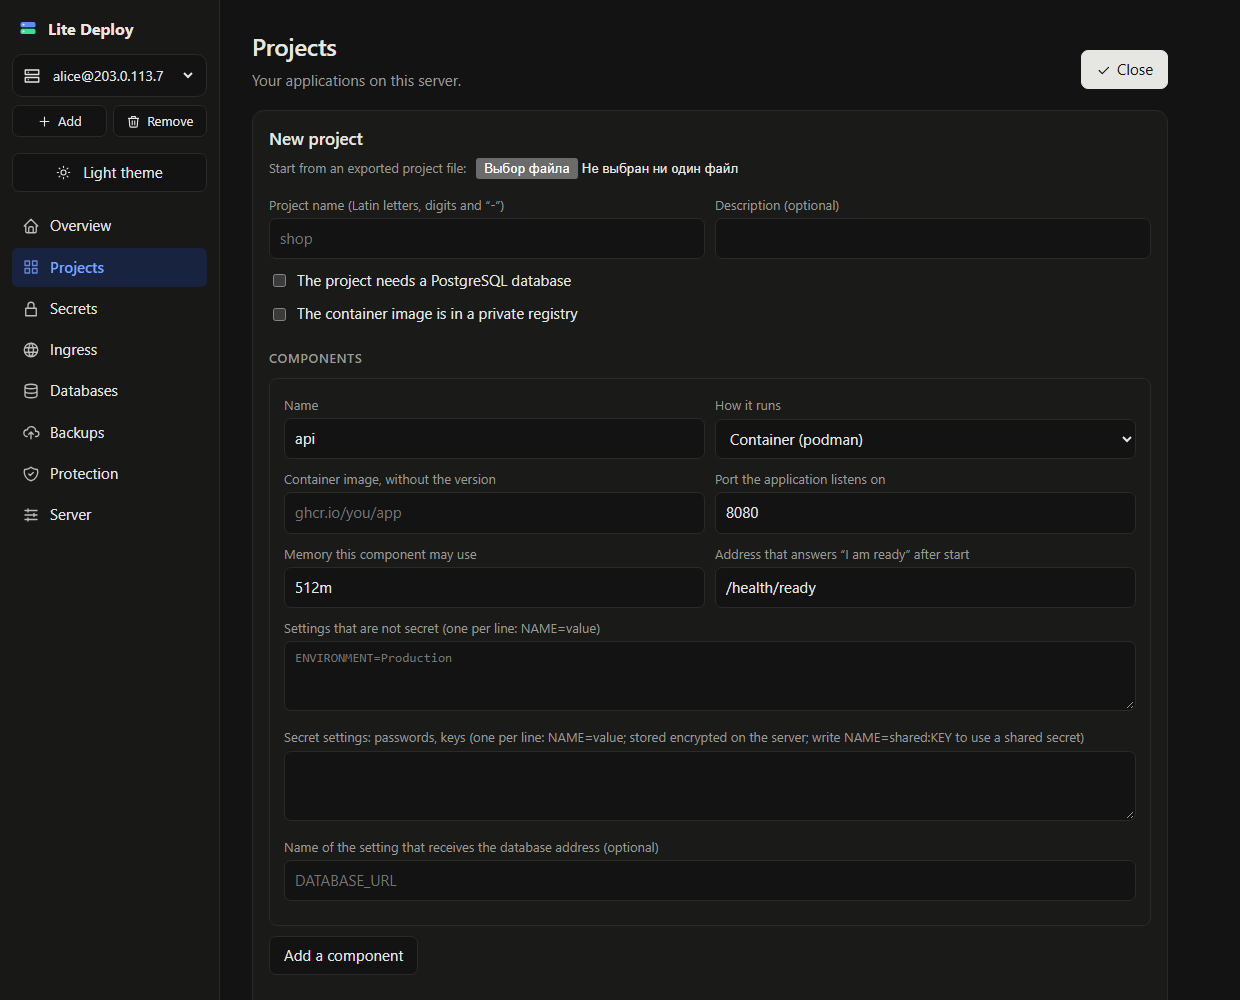
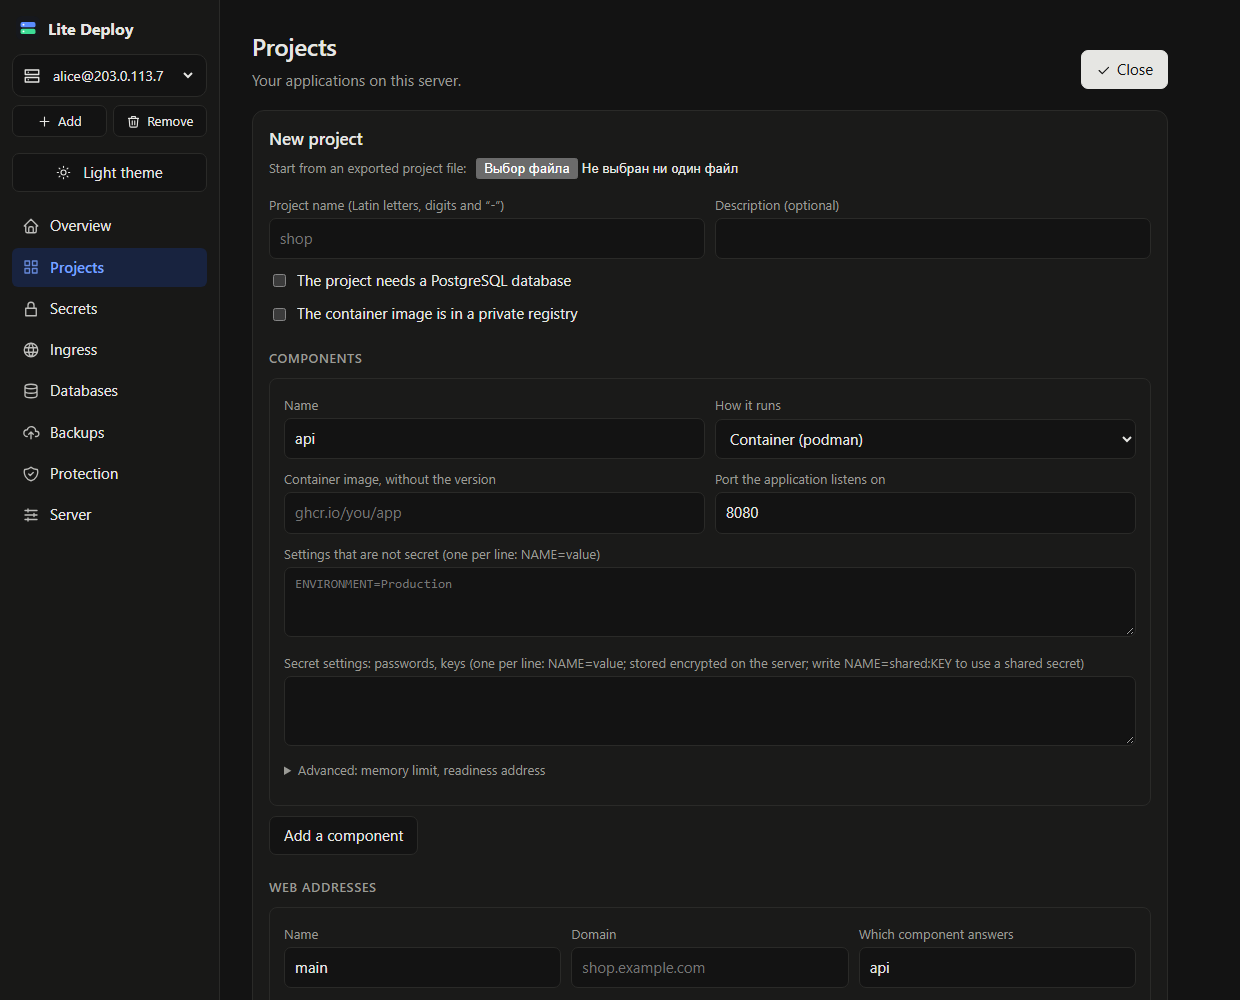
Packages page (search, install, update, remove); package search on the server; simpler new-project form; plan T22 and T23

diff --git a/internal/ui/web/js/new-project.js b/internal/ui/web/js/new-project.js
@@ -29,10 +29,13 @@
     <div class="grow"><label>Description (optional)</label><input type="text" v-model="desc" autocomplete="off"></div></div>\
   <label class="check"><input type="checkbox" v-model="dbOn"> The project needs a PostgreSQL database</label>\
   <div class="box" v-if="dbOn">\
-    <div class="row"><div class="grow"><label>Database server (empty: this server)</label><input type="text" v-model="db.server" autocomplete="off"></div>\
-      <div class="grow"><label>Port (for another server)</label><input type="text" v-model="db.port"></div>\
-      <div class="grow"><label>How your application reads the database address</label><select v-model="db.fmt"><option value="url">As a link (most applications)</option><option value="npgsql">.NET style (Npgsql)</option><option value="libpq">Key = value style (libpq)</option></select></div></div>\
-    <label>Password of the database role (only for a database on another server)</label><input type="password" v-model="db.pass" autocomplete="off">\
+    <div class="help">The database is created on this server, with its own user and password; the application gets the address in a setting you name below.</div>\
+    <details style="margin-top:8px"><summary class="help">Advanced: a database on another server, or another address format</summary>\
+      <div class="row"><div class="grow"><label>Database server (empty: this server)</label><input type="text" v-model="db.server" autocomplete="off"></div>\
+        <div class="grow"><label>Port (for another server)</label><input type="text" v-model="db.port"></div>\
+        <div class="grow"><label>Address format (leave as it is unless the application says otherwise)</label><select v-model="db.fmt"><option value="url">Standard (most applications)</option><option value="npgsql">.NET (Npgsql)</option><option value="libpq">Key = value (libpq)</option></select></div></div>\
+      <label>Password of the database user (only for a database on another server)</label><input type="password" v-model="db.pass" autocomplete="off">\
+    </details>\
   </div>\
   <label class="check"><input type="checkbox" v-model="regOn"> The container image is in a private registry</label>\
   <div class="box" v-if="regOn">\
@@ -52,11 +55,15 @@
       <label>Public key your build is signed with (a minisign key, starts with RWQ)</label><input type="text" v-model="s.rkey" placeholder="RWQ…" autocomplete="off">\
       <label>Download token (optional)</label><input type="password" v-model="s.rtok" autocomplete="off">\
     </template>\
-    <div class="row"><div class="grow"><label>Memory this component may use</label><input type="text" v-model="s.mem"></div>\
-      <div class="grow"><label>Address that answers “I am ready” after start</label><input type="text" v-model="s.health"></div></div>\
     <label>Settings that are not secret (one per line: NAME=value)</label><textarea v-model="s.env" placeholder="ENVIRONMENT=Production" spellcheck="false"></textarea>\
     <label>Secret settings: passwords, keys (one per line: NAME=value; stored encrypted on the server; write NAME=shared:KEY to use a shared secret)</label><textarea v-model="s.sec" spellcheck="false"></textarea>\
+    <template v-if="dbOn">\
     <label>Name of the setting that receives the database address (optional)</label><input type="text" v-model="s.dbenv" placeholder="DATABASE_URL" autocomplete="off">\
+    </template>\
+    <details style="margin-top:8px"><summary class="help">Advanced: memory limit, readiness address</summary>\
+    <div class="row"><div class="grow"><label>Memory this component may use</label><input type="text" v-model="s.mem"></div>\
+      <div class="grow"><label>Address that answers “I am ready” after start</label><input type="text" v-model="s.health"></div></div>\
+    </details>\
     <div style="margin-top:10px"><button type="button" @click="services.splice(i, 1)" v-if="services.length > 1">Remove this component</button></div>\
   </div>\
   <button type="button" @click="services.push(newService())">Add a component</button>\
@@ -66,8 +73,12 @@
       <div class="grow"><label>Domain</label><input type="text" v-model="s.host" placeholder="shop.example.com" autocomplete="off"></div>\
       <div class="grow"><label>Which component answers</label><input type="text" v-model="s.service" autocomplete="off"></div></div>\
     <div class="row"><div class="grow"><label>How visitors reach it</label><select v-model="s.publish"><option value="tunnel">Through a Cloudflare Tunnel</option><option value="direct">Directly (Caddy gets the certificate itself)</option></select></div>\
+    </div>\
+    <details style="margin-top:8px"><summary class="help">Advanced: upload limit, real visitor address</summary>\
+    <div class="row">\
       <div class="grow"><label>Visitors come through Cloudflare (so the real visitor address is kept)</label><select v-model="s.proxy"><option value="none">No</option><option value="cloudflare">Yes</option></select></div>\
       <div class="grow"><label>Largest upload allowed (for example 5MB)</label><input type="text" v-model="s.body"></div></div>\
+    </details>\
     <div style="margin-top:10px"><button type="button" @click="sites.splice(i, 1)">Remove this address</button></div>\
   </div>\
   <button type="button" @click="sites.push(newSite())">Add an address</button>\

diff --git a/internal/ui/web/js/packages.js b/internal/ui/web/js/packages.js
@@ -1,0 +1,53 @@
+(function () {
+  // The packages of the server: search, install, update and remove. Everything is done by the `package` plugin on the
+  // server; this page only asks.
+  LU.components.Packages = {
+    data: function () { return { query: '', found: null, list: null, error: '' }; },
+    template: '\
+<div>\
+  <h1>Packages</h1>\
+  <p class="sub">Programs installed on this server. Search for one, install it, or remove one that you installed here.</p>\
+  <h3>Find and install</h3>\
+  <form class="row" @submit.prevent="search">\
+    <input class="grow" type="text" v-model="query" placeholder="What do you need? For example: redis, git, ffmpeg" autocomplete="off" spellcheck="false">\
+    <button class="primary" type="submit" :disabled="$root.state.busy"><icon name="plus"></icon>Search</button></form>\
+  <p v-if="error" class="down">{{ error }}</p>\
+  <table v-if="found && found.length"><tr><th>Package</th><th>What it is</th><th></th></tr>\
+    <tr v-for="f in found" :key="f.name"><td><code>{{ f.name }}</code></td><td>{{ f.summary }}</td>\
+      <td style="text-align:right"><button @click="install(f.name)" :disabled="$root.state.busy">Install</button></td></tr></table>\
+  <p v-else-if="found" class="empty">Nothing found. Try another word.</p>\
+  <h3>Installed through Lite Deploy</h3>\
+  <p v-if="list && !list.length" class="empty">Nothing yet. Programs you install here appear in this list.</p>\
+  <table v-else-if="list"><tr><th>Package</th><th>Version</th><th>Installed</th><th></th></tr>\
+    <tr v-for="p in list" :key="p.name"><td><code>{{ p.name }}</code></td><td>{{ p.version }}</td><td class="muted">{{ p.installed_at }}</td>\
+      <td style="text-align:right;white-space:nowrap"><button @click="update(p.name)" :disabled="$root.state.busy">Update</button>\
+        <button @click="remove(p.name)" :disabled="$root.state.busy">Remove</button></td></tr></table>\
+  <p v-else class="empty">Loading…</p>\
+  <div class="help">Only programs installed here are listed. The ones that keep the server working (SSH, sudo, systemd) cannot be removed.</div>\
+</div>',
+    methods: {
+      load: function () {
+        var self = this;
+        LU.api('/api/plugin', { plugin: 'package', command: 'list', args: [] }).then(function (r) {
+          if (r.ok) { self.list = (r.data && r.data.packages) || []; } else { self.error = r.error ? r.error.message : 'Could not load.'; }
+        });
+      },
+      search: function () {
+        var self = this, q = this.query.trim();
+        self.error = '';
+        if (q.length < 2) { LU.say('err', 'Type at least two letters.'); return; }
+        LU.run('Searching…', '/api/plugin', { plugin: 'package', command: 'search', args: q.split(/\s+/) }, function () { return 'Done.'; })
+          .then(function (r) { if (r.ok) { self.found = (r.data && r.data.found) || []; LU.clear(); } });
+      },
+      act: function (verb, name, wait, doneText) {
+        var self = this;
+        if (!confirm(verb[0].toUpperCase() + verb.slice(1) + ' ' + name + ' on this server?')) return;
+        LU.run(wait, '/api/plugin', { plugin: 'package', command: verb, args: [name] }, function () { return doneText; }).then(function () { self.load(); });
+      },
+      install: function (n) { this.act('install', n, 'Installing ' + n + '…', n + ' is installed.'); },
+      update: function (n) { this.act('update', n, 'Updating ' + n + '…', n + ' is updated.'); },
+      remove: function (n) { this.act('remove', n, 'Removing ' + n + '…', n + ' is removed.'); }
+    },
+    mounted: function () { this.load(); }
+  };
+})();

diff --git a/internal/ui/web/js/main.js b/internal/ui/web/js/main.js
@@ -8,6 +8,7 @@
     { id: 'databases', title: 'Databases', icon: 'database', plugin: 'pg', comp: 'databases' },
     { id: 'backups', title: 'Backups', icon: 'backup', plugin: 'backup', comp: 'backups' },
     { id: 'security', title: 'Protection', icon: 'shield', comp: 'security' },
+    { id: 'packages', title: 'Packages', icon: 'box', plugin: 'package', comp: 'packages' },
     { id: 'server', title: 'Server', icon: 'settings', comp: 'server' }
   ];
 
@@ -74,6 +75,7 @@
   app.component('projects', C.Projects);
   app.component('ingress', C.Ingress);
   app.component('shared-secrets', C.SharedSecrets);
+  app.component('packages', C.Packages);
   app.component('databases', C.Databases);
   app.component('backups', C.Backups);
   app.component('store-form', C.StoreForm);

diff --git a/internal/ui/web/js/icons.js b/internal/ui/web/js/icons.js
@@ -10,6 +10,7 @@
     settings: 'M4 6h16 M4 12h16 M4 18h16 M8 4v4 M16 10v4 M8 16v4',
     server: 'M3 4h18v6H3z M3 14h18v6H3z M7 7v.01 M7 17v.01',
     plus: 'M12 5v14 M5 12h14',
+    box: 'M21 8l-9-5l-9 5v8l9 5l9-5z M3 8l9 5l9-5 M12 13v8',
     lock: 'M5 11h14v10H5z M8 11V7a4 4 0 0 1 8 0v4',
     refresh: 'M20 11a8 8 0 1 0-2 5.5 M20 4v7h-7',
     alert: 'M12 3l10 18H2z M12 10v4 M12 17v.01',

diff --git a/internal/ui/web/index.html b/internal/ui/web/index.html
@@ -17,6 +17,7 @@
 <script src="/static/js/secret-panel.js"></script>
 <script src="/static/js/projects.js"></script>
 <script src="/static/js/shared-secrets.js"></script>
+<script src="/static/js/packages.js"></script>
 <script src="/static/js/new-project.js"></script>
 <script src="/static/js/databases.js"></script>
 <script src="/static/js/backups.js"></script>

diff --git a/internal/pkgmgr/pkgmgr.go b/internal/pkgmgr/pkgmgr.go
@@ -371,3 +371,59 @@ func (m *Manager) Remove(ctx context.Context, names ...string) error {
 	}
 	return m.saveJournal(keep)
 }
+
+// Found is one result of a search.
+type Found struct {
+	Name    string `json:"name"`
+	Summary string `json:"summary"`
+}
+
+var searchRe = regexp.MustCompile(`^[A-Za-z0-9][A-Za-z0-9 .+_-]{1,60}$`)
+
+// Search looks for packages by name or description (at most 30 answers). It reads only, nothing is changed.
+func (m *Manager) Search(ctx context.Context, query string) ([]Found, error) {
+	query = strings.TrimSpace(query)
+	if !searchRe.MatchString(query) {
+		return nil, fail("usage", "search for 2 to 60 letters, digits, spaces, dots, dashes")
+	}
+	mgr, err := m.Detect(ctx)
+	if err != nil {
+		return nil, err
+	}
+	var c host.Cmd
+	switch mgr {
+	case "apt":
+		c = host.Cmd{Name: "apt-cache", Args: []string{"search", "--", query}}
+	case "dnf":
+		c = host.Cmd{Name: "dnf", Args: []string{"-q", "search", "--", query}}
+	default:
+		return nil, fail("precondition_failed", "search is not available for %s yet: type the package name", mgr)
+	}
+	res, err := m.Runner.Run(ctx, c)
+	if err != nil {
+		return nil, err
+	}
+	if res.ExitCode != 0 {
+		return []Found{}, nil
+	}
+	out := []Found{}
+	for _, line := range strings.Split(string(res.Stdout), "\n") {
+		var name, sum string
+		switch mgr {
+		case "apt":
+			name, sum, _ = strings.Cut(line, " - ")
+		default:
+			name, sum, _ = strings.Cut(line, " : ")
+			name, _, _ = strings.Cut(name, ".") // drop the architecture: tool.x86_64
+		}
+		name, sum = strings.TrimSpace(name), strings.TrimSpace(sum)
+		if !nameRe.MatchString(name) || strings.HasPrefix(line, "=") {
+			continue
+		}
+		out = append(out, Found{Name: name, Summary: sum})
+		if len(out) == 30 {
+			break
+		}
+	}
+	return out, nil
+}

diff --git a/internal/builtin/pkg.go b/internal/builtin/pkg.go
@@ -23,6 +23,7 @@ func (Pkg) Description() string {
 func (Pkg) Commands() []plugin.Command {
 	return []plugin.Command{
 		{Name: "list", Help: "packages installed through lite"},
+		{Name: "search", Help: "find packages by name or description (reads only)", Args: "WORDS"},
 		{Name: "check", Help: "whether a package is installed and its version", Args: "PACKAGE"},
 		{Name: "install", Help: "install packages", Args: "PACKAGE…", Confirm: true},
 		{Name: "update", Help: "update packages", Args: "PACKAGE…", Confirm: true},
@@ -64,6 +65,22 @@ func (Pkg) Run(ctx context.Context, env plugin.Env, cmd string, args []string) (
 			fmt.Fprintf(&sb, "%-30s %-20s %s\n", e.Name, e.Version, e.InstalledAt)
 		}
 		return plugin.Output{Text: sb.String(), Data: map[string]any{"packages": es}}, nil
+	case "search":
+		if len(args) == 0 {
+			return plugin.Output{}, plugin.Errorf("usage", "usage: lite package search WORDS")
+		}
+		found, err := m.Search(ctx, strings.Join(args, " "))
+		if err != nil {
+			return plugin.Output{}, pkgErr(err)
+		}
+		var sb strings.Builder
+		for _, f := range found {
+			fmt.Fprintf(&sb, "%-30s %s\n", f.Name, f.Summary)
+		}
+		if len(found) == 0 {
+			sb.WriteString("Nothing found.\n")
+		}
+		return plugin.Output{Text: sb.String(), Data: map[string]any{"found": found}}, nil
 	case "check":
 		if len(args) != 1 {
 			return plugin.Output{}, plugin.Errorf("usage", "usage: lite package check PACKAGE")

diff --git a/internal/pkgmgr/pkgmgr_test.go b/internal/pkgmgr/pkgmgr_test.go
@@ -195,3 +195,27 @@ func TestDockerIsForbidden(t *testing.T) {
 		t.Error("extra packages fell under the ban")
 	}
 }
+
+func TestSearchApt(t *testing.T) {
+	r := &host.FakeRunner{Handler: func(c host.Cmd) (host.Result, error) {
+		if c.Name == "apt-cache" {
+			return host.Result{Stdout: []byte("redis-server - Persistent key-value database\nredis-tools - Persistent key-value database (client)\nnot a line\n")}, nil
+		}
+		return host.Result{}, nil
+	}}
+	m := &Manager{Runner: r, FS: host.NewMemFS()}
+	found, err := m.Search(context.Background(), "redis")
+	if err != nil || len(found) != 2 || found[0].Name != "redis-server" || !strings.Contains(found[0].Summary, "key-value") {
+		t.Fatalf("%+v %v", found, err)
+	}
+	for _, bad := range []string{"", "a", "x; rm -rf /", "--help"} {
+		if _, err := m.Search(context.Background(), bad); err == nil {
+			t.Errorf("%q must be refused", bad)
+		}
+	}
+	for _, c := range r.Calls {
+		if c.Name == "apt-cache" && c.Args[1] != "--" {
+			t.Errorf("the query must come after --: %v", c.Args)
+		}
+	}
+}

diff --git a/PLAN.md b/PLAN.md
@@ -141,6 +141,8 @@ Decisions taken: D-25…D-38 in `DECISIONS.md`.
 - **T17. Smaller things in the MCP tools.** `run_plugin` should list the valid commands of the plugin when the command is unknown; a test that every tool of the server is also in the extension manifest (today only the other direction is checked).
 - **T18. SSH keys in the interface.** A block on **Protection**: the keys with fingerprints, "Add a key" (paste a line), "Remove" (`lite ssh-key` already exists in the terminal; the interface and an MCP tool do not).
 - **T19. The page remembers the last chosen server** across restarts of `lite-ui`, and opens on it, not on the first server of the list.
+- **T22. Dependencies of a project as a general idea (the core must not know PostgreSQL).** Today the project description has a fixed `database` field and the code that makes the database, the user and the password lives in the core (`internal/plan`), and `project.Requires` names `pg`. Redis cannot be a dependency (it can only be installed), and MySQL has no plugin. The target: a project lists what it needs (a database, a cache, a queue) as `needs`; each plugin (`pg`, `mysql`, `redis`) makes the resource (a database or a keyspace, a user, a password) and returns the connection settings; the core only passes them to the application. The form of a project is built from the installed plugins. Podman and Caddy may stay known to the core (they are the standard runtime and ingress). Order: a plugin interface for "provide a resource", move PostgreSQL behind it without changing the behavior, then Redis and MySQL.
+- **T23. Audit of the interface: what is real and what only looks real.** Walk every menu item and every button, write down what does nothing or little, and fix it one by one. Done in this round: **Secrets** (shared secrets of the server) and **Packages** (search, install, update, remove) are menu items; the form of a new project hides the rare fields under "Advanced". Still to check: Databases (only PostgreSQL), Backups, Server (plugin panels are generic forms), Overview.
 - **T20. The live check.** `TESTING.md` sections 0 to 6d have not been run on a real server; the test server is still on `lite` v0.12.0 and must be updated first (the Update button on **Overview**).
 - **T21 (done 2026-11-20, to be checked live). The Cloudflare side from the interface, all on the server.** The plugin command `lite cloudflare connect` makes the tunnel (one per Cloudflare account), the route and the DNS record, runs the connector and, with `--project --site`, points the site at it; `access-protect|access-list|access-remove` do the Cloudflare Access. The API token is read from standard input, used once and never kept. The page, the terminal and MCP (`run_plugin`) only call these commands: **there is no logic on the client** (a rule of the architecture; an earlier version had Cloudflare code in `lite-ui` and it was removed). Not done: deleting a tunnel with its route and DNS record.
 - **Postponed on purpose:** the local `lite` for developers on a Mac (a small production-like setup on the workstation); forms generated from JSON Schema; a check of the Cloudflare DNS record by an API token.
